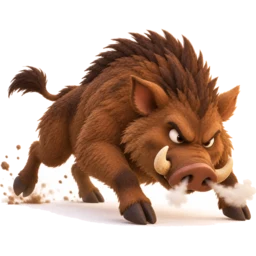
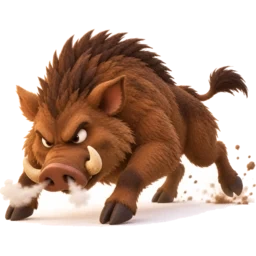
fix(art): 我方人物圖全部朝右、敵人全部朝左（逐張看圖只翻需要的 18 張）；狗與迷羊改成預設朝右、往左跑才鏡像；render v17
Claude-Session: https://claude.ai/code/session_01SYPuyoVBYFpBbWmvumijvq

diff --git a/render.js b/render.js
@@ -462,7 +462,7 @@ const Board = (() => {
     const alive = new Set(); const anim = !paused && !still && speed <= 1 && !reduce();
     const put = (id, emoji, kind, x, y, hpv, max, resting) => {
       alive.add(id); const v = MV.get(id) || moverVisual(id, emoji, kind);
-      if (kind !== 'patrol') { const dx = x * cw - v.cont.x; if (Math.abs(dx) > .3) v.faceRight = dx > 0; const sx = Math.abs(v.spr.scale.x) * (v.faceRight ? -1 : 1); v.spr.scale.x = sx; v.bright.scale.x = sx; } // 狗、迷羊的圖預設朝左；往右跑就左右鏡像，停下來維持最後的方向（James 10/26）
+      if (kind !== 'patrol') { const dx = x * cw - v.cont.x; if (Math.abs(dx) > .3) v.faceRight = dx > 0; const sx = Math.abs(v.spr.scale.x) * (v.faceRight === false ? -1 : 1); v.spr.scale.x = sx; v.bright.scale.x = sx; } // 狗、迷羊的圖預設朝右（10/26 全部我方圖翻成面向敵人）；往左跑就左右鏡像，停下來維持最後的方向（James 10/26）
       v.cont.x = x * cw; v.cont.y = yAt(y, x); // 跑到坡上的狗、巡夜人、迷羊跟著沉下去、變小
       if (!paused) { v.swing = Math.max(0, v.swing - dt); v.brightT = Math.max(0, v.brightT - dt); }
       const sw = v.swing > 0 ? Math.sin((1 - v.swing / .3) * Math.PI) : 0;

diff --git a/index.html b/index.html
@@ -406,7 +406,7 @@
 <script src="engine.js?v=18"></script>
 <script src="sound.js?v=7"></script>
 <script src="lib/pixi.min.js"></script>
-<script src="render.js?v=16"></script>
+<script src="render.js?v=17"></script>
 <script>
 'use strict';
 // ROWS、COLS、UNITS、ENEMIES、STRAY、DIFFS、LEVELS 由 data.js 直接提供

diff --git a/docs/art-asset-plan-2026-10-26.md b/docs/art-asset-plan-2026-10-26.md
@@ -84,7 +84,7 @@
 - 2026-10-26 **全身版接進棋盤（分支 feat/char-fullbody）**：五張全身圖 floodfill 去背、裁到角色邊框、補正方形、縮 256 存 `img/ico/c-*.webp`，index.html 的 ICON_IMG 把 🧑🌾🐑🐕🐺🦁 改指過去（棋盤、卡片、圖鑑一起換）。James 真機三條回饋都做了：(1) 狗往右跑要鏡像——drawMovers 看 x 的變化翻 spr.scale.x，停下維持最後方向，迷羊同套；(2) 手機上太小——makeIcon 對 c-* 檔放大 1.35 倍；(3) 牧人跟封面不符——封面裁下牧人當參考重生（帽子、綠衣、藍吊帶褲、草叉），第一版留 `shepherd-full-v1-src.png`。另拿掉一般敵人的暗紅細圈（頭目金圈留著）。render v16。
 - 2026-10-26 晚 **全部圖示換新圖（45 張）**：James 交代「後續其他任何需要的圖依序生成完、先在測試版換上」。同一個 ChatGPT 對話接著生：我方單位與道具 24 張（投石手、石牆、機弦手、雇工、守望樓、弓箭手、荊棘、火盆、瓦瓶火把、吹角手、纏裹的牧人、投石機、牧人杖、油燈、巡夜人、投石隊、抱羊羔的牧人、拋石手、水袋、石堆、陷坑、看門的、石頭）、敵人 13 張（母熊、賊、偷羊人、狐狸、蝗群、野狗、大鷹、野豬、夜鴞、豹、強盜、野牛）、小標記與升級角標 8 張（狗屋、木樁、鏟子、腳印、蠍子、銀號、膏油、齒輪）。原圖 `img/char/<key>-full-src.png`、上線 `img/ico/c-<key>.webp`（256px）。
   - 投石手的 ico 從 🪨 改成 🙋（data.js），🪨 留給棋盤石頭與投石機的石子；巧匠的機器 ⚙ 原本沒圖、這次補上。
-  - 我方人物圖全部左右翻轉朝右（面向敵人），敵人朝左。道具不翻。
+  - 我方人物圖全部左右翻轉朝右（面向敵人），敵人朝左。道具不翻。→ 10/26 晚做完：逐張看圖後只翻需要的 18 張（我方 10：弓箭手、抱羊羔、狗、羊、看門的、纏裹、雇工、吹角手、巡夜人、拋石手；敵方 8：熊、野豬、狐狸、豹、蝗群、野牛、偷羊人、野狗），直接 `magick -flop` 改 `c-*.webp`，原圖 `*-full-src.png` 沒動。狗與迷羊的程式碼預設改成「圖朝右、往左跑才鏡像」（render v17）。蠍子是荊棘角標、當道具不翻。
   - 陷坑第一輪畫成整片草地（沒有白底可去背），改口「一塊圓餅狀的土地切片懸在白底上」才對。
   - 第一個對話生到第 38 張（強盜之後）開始每題都回「違反裸露／色情防範機制」的誤判（連狗屋都擋），換新對話、附油燈＋火盆當風格參考就正常（對話「繪製狗屋道具」）。強盜其實有生出來，只是圖載入慢被我誤判沒生。
   - 標記類（狗屋、木樁、腳印、鏟子）在棋盤上是半透明小標記，升級角標只有 12px，換圖效果有限，主要是圖鑑裡看得到。
